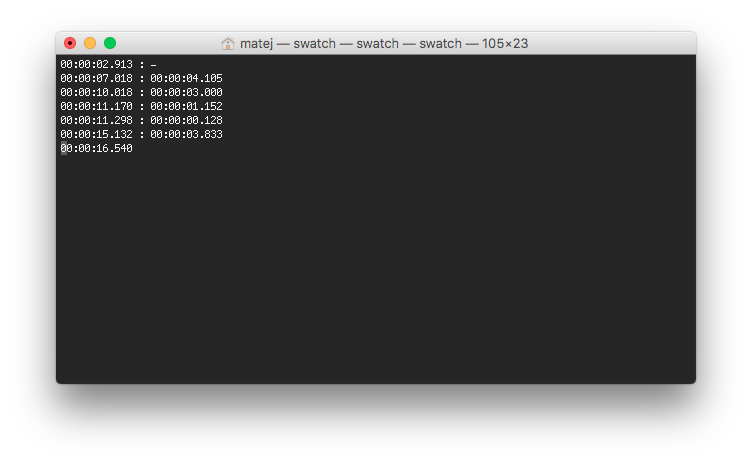
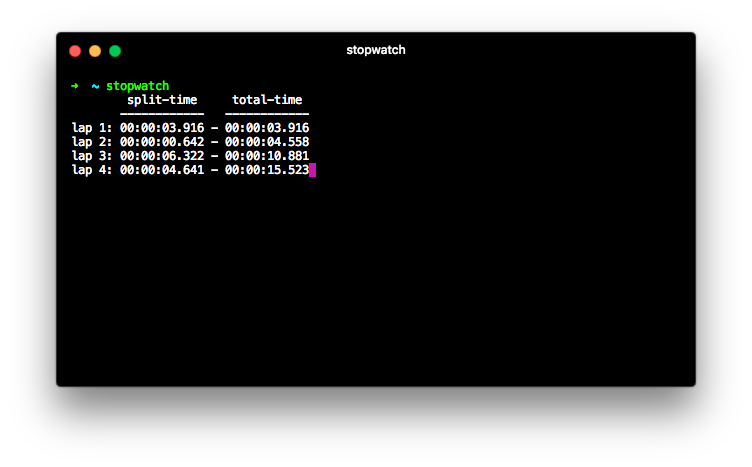
[DOC] Modify project readme
Updated readme and images from swift to python

diff --git a/README.md b/README.md
@@ -1,8 +1,8 @@
 # Stopwatch
 
-> Stopwatch is command line application and library for time tracking.
+> Stopwatch is a simple time tracking cli app
 
-![](Examples/example-start.png)
+![Program screen after start](Examples/example-laps.png)
 
 - [Requirements](#requirements)
 - [Installation](#installation)
@@ -12,52 +12,56 @@
 
 ## Requirements
 
-To **use**:
-
-- macOS 10.9+
-
-*Linux support is in the works*.
-
-To **compile**:
-
-- Swift 4.0+
-- Xcode 9.0+ (optional)
+- Python
+  - version 2.7+ or 3.5+
 
 ## Installation
 
-### Download release
+### With package manager
 
-Download precompiled binary file from
-[releases](https://github.com/matejkosiarcik/Stopwatch/releases).
+*This method is not available yet.*
 
-### Build from source
+### Manually
 
-Clone the repository `$ git clone git@github.com:matejkosiarcik/Stopwatch.git`
-or download repository manually as `.zip` file and unzip it.
+Download project as zip and unzip it,
+&lt;OR&gt;,
+clone the project with
+`$ git clone https://github.com/matejkosiarcik/Stopwatch.git`.
+Then run:
 
-Navigate to project root `$ cd Stopwatch` and run `$ swift build -c release`.
-Your resulting binary can be found at `$ ./.build/release/swatch`.
+```sh
+cd Stopwatch
+pip install .
+# If you do not have pip installed, try: $ python setup.py install
+```
+
+#### Alternative
+
+If you dislike aforementioned forms of installation, you can just download
+single script file `stopwatch` from releases and put it somewhere under your
+`PATH`.
 
 ## Usage
 
-Run the binary `$ ./swatch`.
-App prints controls at start, e.g (`space` to pause).
-Laps are reported in format: `(from first start) : (from last recorded lap)`,
-example:
+Run the program `$ stopwatch`.
 
-![](Examples/example-laps.png)
+Controls:
 
-If you are experiencing troubles, see help page with `$ ./swatch -h` or
-`$ ./swatch --help`.
+Key | description
+--- | ---
+&lt;Enter&gt; | new lap
+&lt;Space&gt; | pause/continue
+&lt;ESC&gt; or &lt;Q&gt; | quit
+
+If you are experiencing troubles, see help page with `$ stopwatch -h` or
+`$ stopwatch --help`.
 
 ## Testing
 
-To test the swift part of project, just run `$ swift test` in project root.
-To test whole project including swift, shell and other sources, run
-`$ ./Utils/test` in project root.
+To test project, run `$ python tests.py`.
 
-Not all parts of the app are testable, so always make sure the resulting
-executable runs correctly.
+Not all parts of the program are testable, so always make sure the program runs
+correctly.
 
 ## License
 
